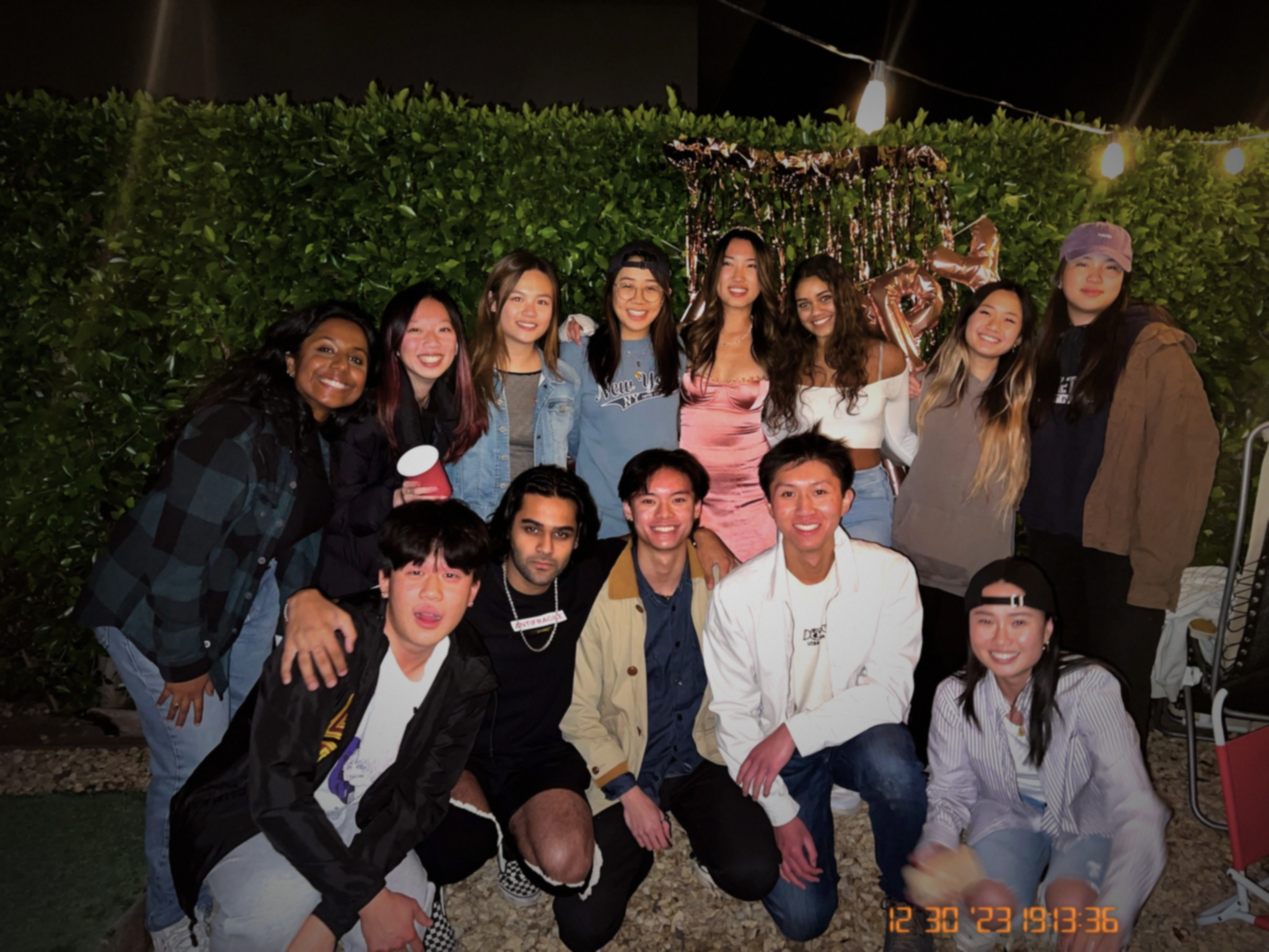
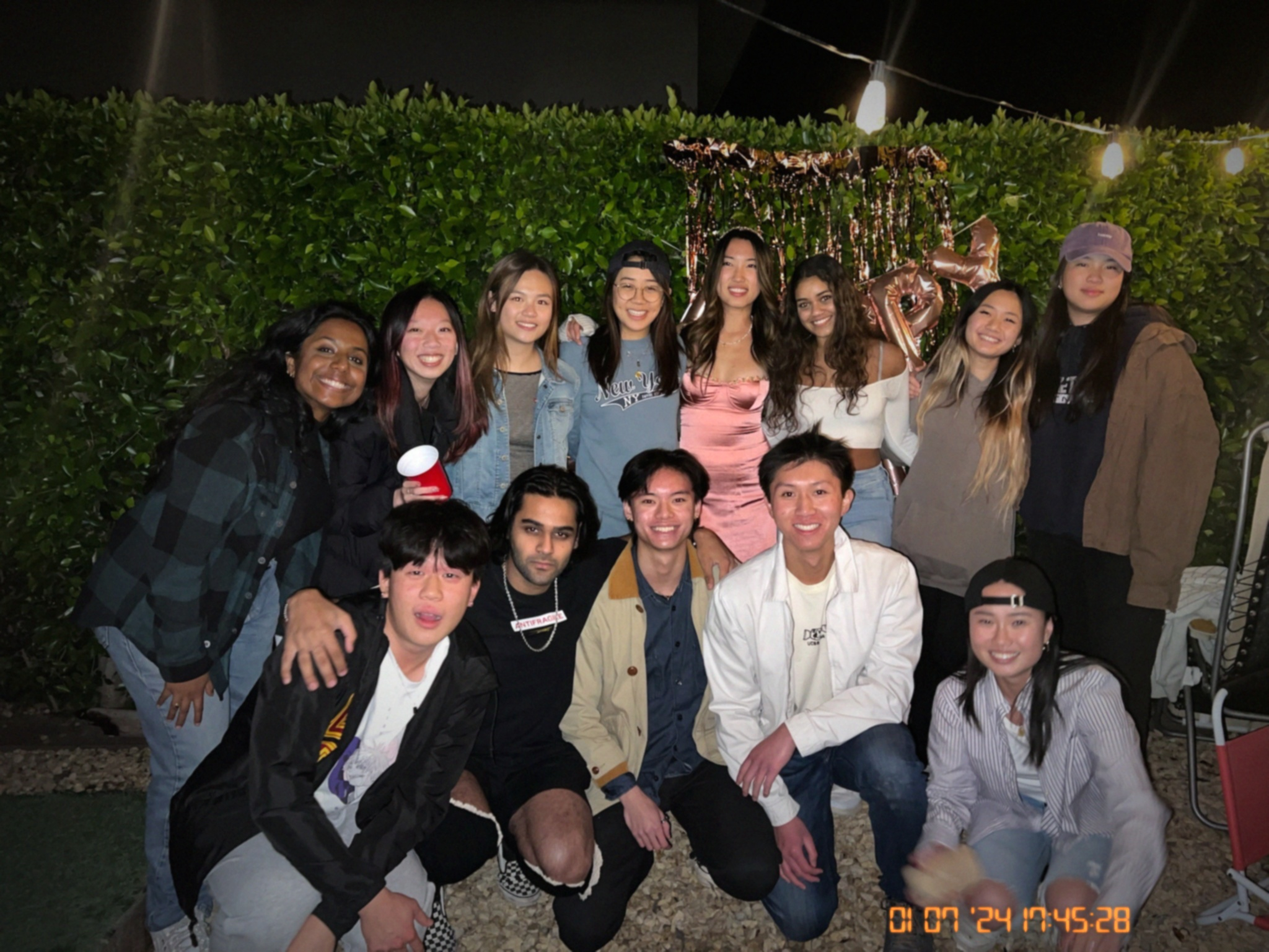
modify filters

diff --git a/vint/main.py b/vint/main.py
@@ -16,6 +16,25 @@ def check_and_reformat(datetime_str):
 
     return datetime_str
 
+def blurr_scalar(width, height):
+    if width >= 3000 and height >= 3000:
+        return 1.8
+    elif width >= 2000 and height >= 2000:
+        return 1.5
+    elif width >= 1000 and height >= 1000:
+        return 1.2
+    else:
+        return 1.1
+     
+def rand_noise_intensity(width, height):
+    if width >= 3000 and height >= 3000:
+        return 17
+    elif width >= 2000 and height >= 2000:
+        return 10
+    elif width >= 1000 and height >= 1000:
+        return 7
+    else:
+        return 1.1
 def apply_neon_effect(image, intensity=2.0, radius=3):
 
     blurred_image = image.filter(ImageFilter.GaussianBlur(radius))
@@ -94,12 +113,12 @@ def eighties_digital_camera_filter(image, timestamp=None):
     image = add_timestamp(image, timestamp)
 
     # add grain/noise
-    intensity = 5
+    intensity = rand_noise_intensity(image.shape[0], image.shape[1])
     noise = np.random.randint(-intensity, intensity + 1, image.shape)
     image = np.clip(image + noise, 0, 255).astype(np.uint8)
 
     # # adjust sharpness
-    image = cv2.GaussianBlur(image, (0, 0), 1.3) # 0.1 or 2.7 or 1.3
+    image = cv2.GaussianBlur(image, (0, 0), blurr_scalar(image.shape[0], image.shape[1])) # 0.1 or 2.7 or 1.3
     image = cv2.addWeighted(image, 1.5, image, -0.5, 0)
 
     return image
@@ -111,14 +130,14 @@ def nineties_digital_camera_filter(image, timestamp=None):
     
     # color balance adjustment (warmer)
     # alpha = weight of first image, beta = weight of second image, gamma = bias (added to final image)
-    image = cv2.addWeighted(image, 1.13, np.full(image.shape, np.array([0, 0, 65]), dtype=image.dtype), 0.07, -13)
+    image = cv2.addWeighted(image, 1.13, np.full(image.shape, np.array([0, 10, 10]), dtype=image.dtype), 0.07, -13)
 
     # contrast and brightness adjustment
-    image = cv2.convertScaleAbs(image, alpha=1.1, beta=0.8)
+    image = cv2.convertScaleAbs(image, alpha=1.07, beta=0.8)
     
     # saturation
     hsv_image = cv2.cvtColor(image, cv2.COLOR_BGR2HSV)
-    saturation_factor = 0.91  # Increase or decrease saturation (1.0 means no change)
+    saturation_factor = 0.98  # Increase or decrease saturation (1.0 means no change)
     hsv_image[:, :, 1] = np.clip(saturation_factor * hsv_image[:, :, 1], 0, 170).astype(np.uint8)
     image = cv2.cvtColor(hsv_image, cv2.COLOR_HSV2BGR)
 
@@ -145,12 +164,12 @@ def nineties_digital_camera_filter(image, timestamp=None):
     image = add_timestamp(image, timestamp)
 
     # add grain/noise
-    intensity = 5
+    intensity = rand_noise_intensity(image.shape[0], image.shape[1])
     noise = np.random.randint(-intensity, intensity + 1, image.shape)
     image = np.clip(image + noise, 0, 255).astype(np.uint8)
 
     # # adjust sharpness
-    image = cv2.GaussianBlur(image, (0, 0), 1.3) # 0.1 or 2.7 or 1.3
+    image = cv2.GaussianBlur(image, (0, 0), blurr_scalar(image.shape[0], image.shape[1])) # 0.1 or 2.7 or 1.3
     image = cv2.addWeighted(image, 1.5, image, -0.5, 0)
 
     return image
@@ -162,13 +181,13 @@ def aesthetic_digital_camera_filter(image, timestamp=None):
     # image = cv2.addWeighted(image, 1.13, np.full(image.shape, np.array([0, 0, 65]), dtype=image.dtype), 0.07, -13)
 
     # contrast and brightness adjustment
-    # image = cv2.convertScaleAbs(image, alpha=1.1, beta=0.8)
-
+    image = cv2.convertScaleAbs(image, alpha=0.91, beta=0.2)
+    
     # saturation
-    hsv_image = cv2.cvtColor(image, cv2.COLOR_BGR2HSV)
-    saturation_factor = 1.13  # Increase or decrease saturation (1.0 means no change)
-    hsv_image[:, :, 1] = np.clip(saturation_factor * hsv_image[:, :, 1], 0, 170).astype(np.uint8)
-    image = cv2.cvtColor(hsv_image, cv2.COLOR_HSV2BGR)
+    # hsv_image = cv2.cvtColor(image, cv2.COLOR_BGR2HSV)
+    # saturation_factor = 0.91  # Increase or decrease saturation (1.0 means no change)
+    # hsv_image[:, :, 1] = np.clip(saturation_factor * hsv_image[:, :, 1], 0, 180).astype(np.uint8)
+    # image = cv2.cvtColor(hsv_image, cv2.COLOR_HSV2BGR)
 
     # vignetting
     rows, cols, _ = image.shape
@@ -193,17 +212,18 @@ def aesthetic_digital_camera_filter(image, timestamp=None):
     image = add_timestamp(image, timestamp)
 
     # add grain/noise
-    intensity = 5
+    intensity = rand_noise_intensity(image.shape[0], image.shape[1])
     noise = np.random.randint(-intensity, intensity + 1, image.shape)
     image = np.clip(image + noise, 0, 255).astype(np.uint8)
 
     # # adjust sharpness
-    image = cv2.GaussianBlur(image, (0, 0), 2.0) # 0.1 or 2.7 or 1.3
-    image = cv2.addWeighted(image, 1.5, image, -0.5, 0)
+    image = cv2.GaussianBlur(image, (0, 0), blurr_scalar(image.shape[0], image.shape[1])) # 0.1 or 2.7 or 1.3
+    image = cv2.addWeighted(image, 1.2, image, 0.1, 0)
+
 
     return image
 
-image_file = 'caplonghair2.jpeg'
+image_file = 'caye1.jpeg'
 # get the timestamp from the image metadata
 timestamp = 'hi' #Image.open(image_file)._getexif()[36867]
 image = cv2.imread(image_file)
